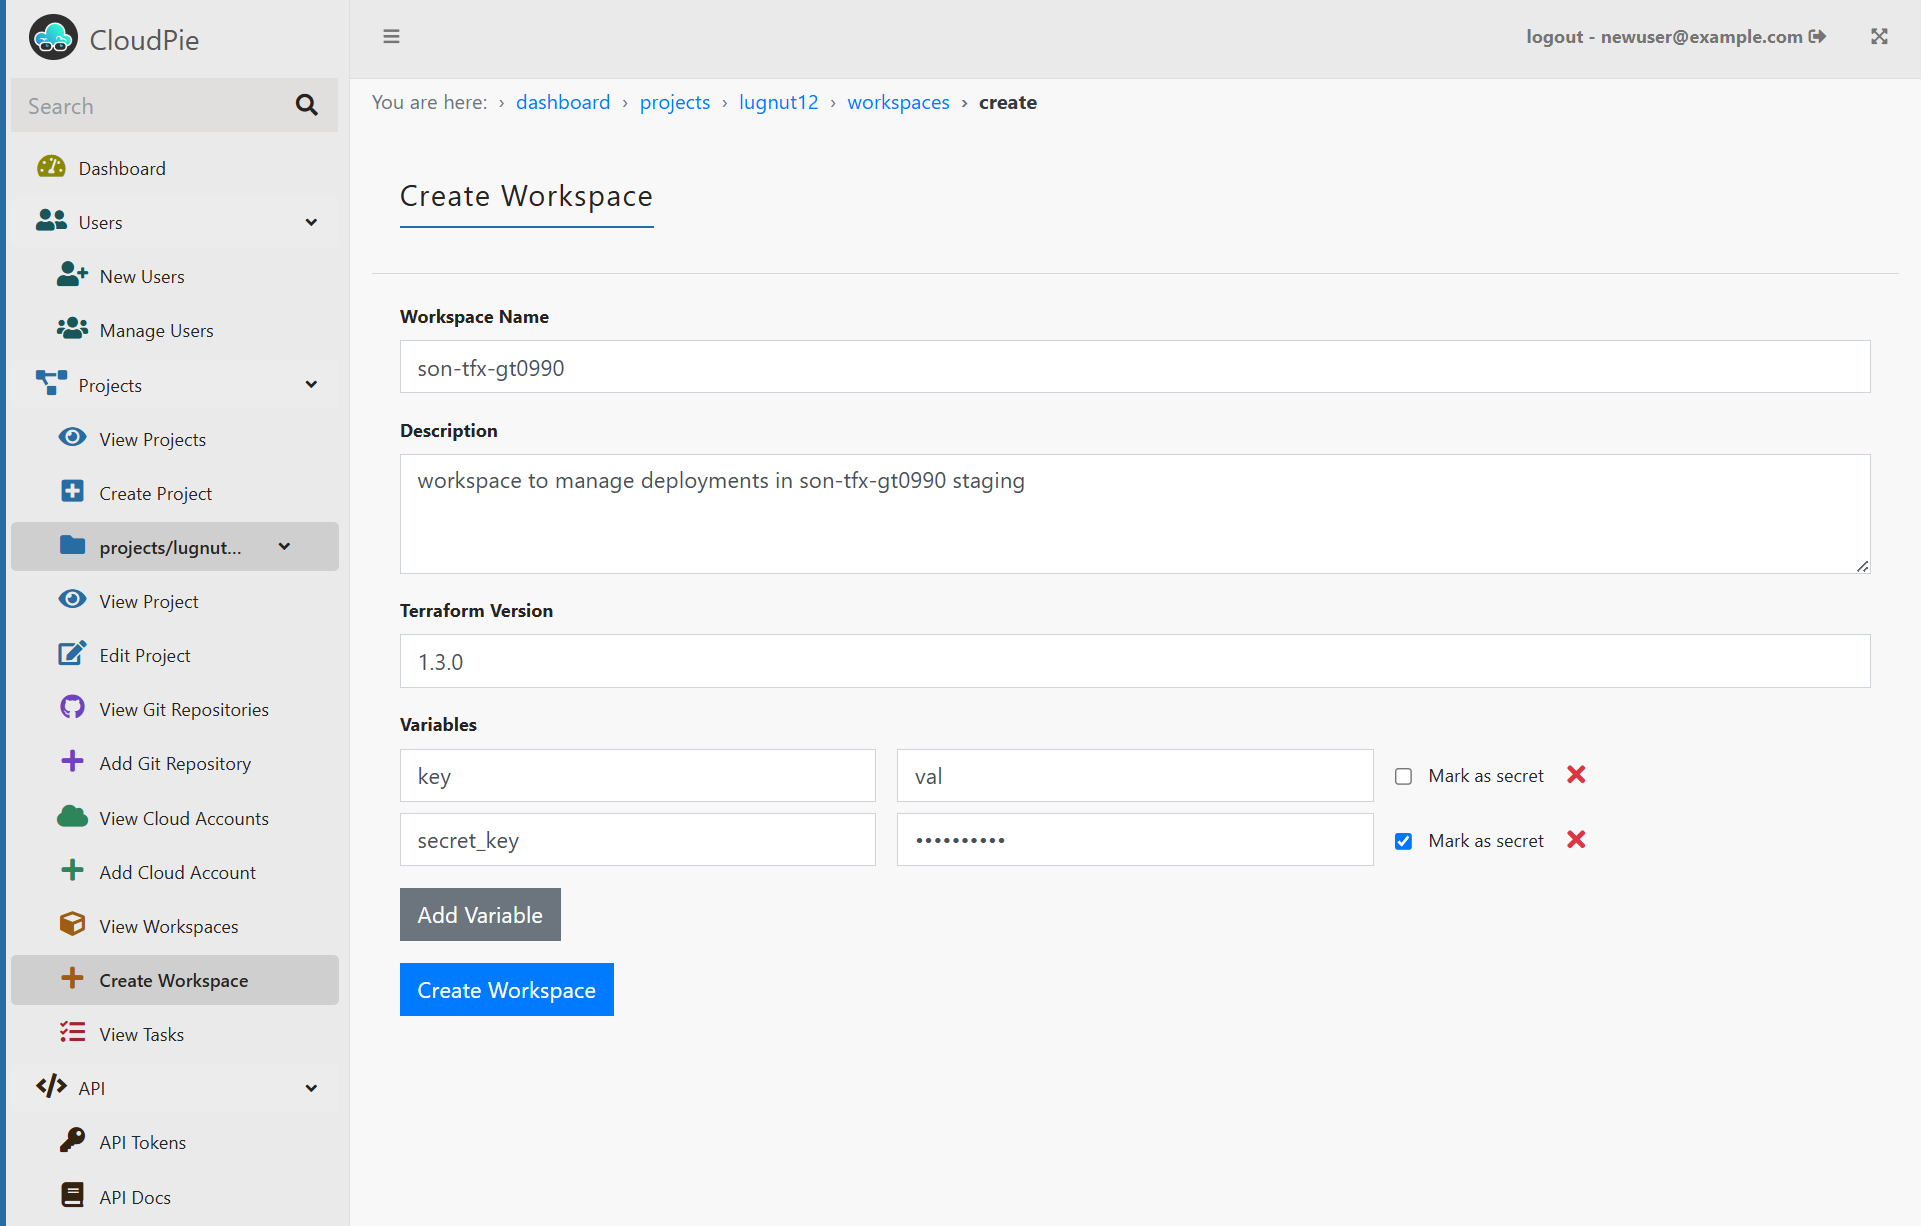
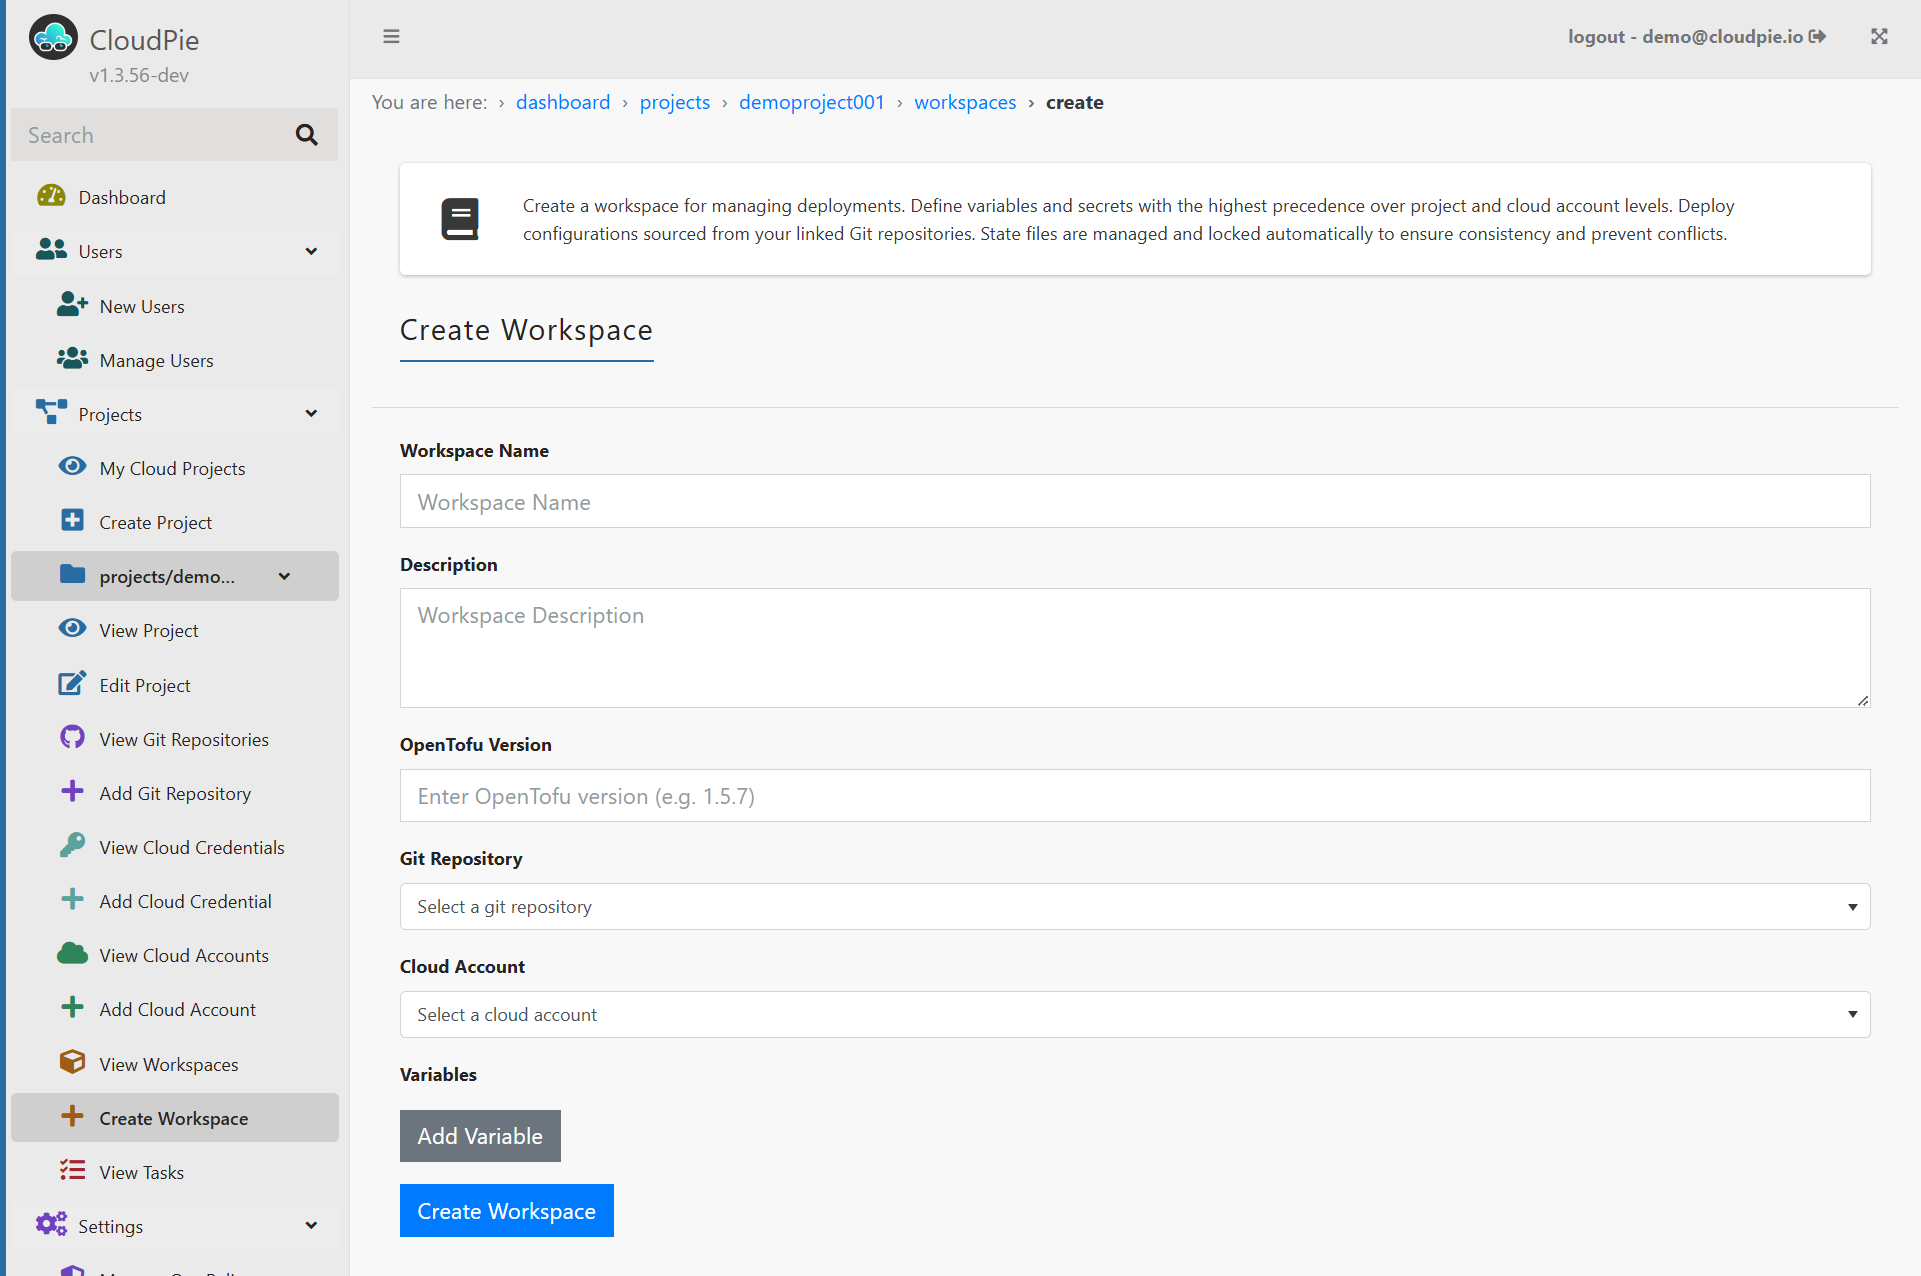
Deployed d2370c1 with MkDocs version: 1.6.1

diff --git a/cloud-accounts-querying/index.html b/cloud-accounts-querying/index.html
@@ -72,7 +72,7 @@
     <div data-md-component="skip">
       
         
-        <a href="#querying-cloud-resources" class="md-skip">
+        <a href="#benchmarks-and-queries" class="md-skip">
           Skip to content
         </a>
       
@@ -865,9 +865,9 @@
     <ul class="md-nav__list" data-md-component="toc" data-md-scrollfix>
       
         <li class="md-nav__item">
-  <a href="#executing-a-query" class="md-nav__link">
+  <a href="#running-a-benchmark-or-query" class="md-nav__link">
     <span class="md-ellipsis">
-      Executing a Query
+      Running a Benchmark or Query
     </span>
   </a>
   
@@ -883,25 +883,15 @@
 </li>
       
         <li class="md-nav__item">
-  <a href="#scheduling-queries" class="md-nav__link">
+  <a href="#scheduling-runs" class="md-nav__link">
     <span class="md-ellipsis">
-      Scheduling Queries
+      Scheduling Runs
     </span>
   </a>
   
 </li>
       
         <li class="md-nav__item">
-  <a href="#_1" class="md-nav__link">
-    <span class="md-ellipsis">
-      
-    </span>
-  </a>
-  
-    <nav class="md-nav" aria-label="">
-      <ul class="md-nav__list">
-        
-          <li class="md-nav__item">
   <a href="#manage-scheduled-runs" class="md-nav__link">
     <span class="md-ellipsis">
       Manage Scheduled Runs
@@ -909,18 +899,13 @@
   </a>
   
 </li>
-        
-          <li class="md-nav__item">
-  <a href="#notes-on-querying-cloud-resources" class="md-nav__link">
+      
+        <li class="md-nav__item">
+  <a href="#notes-on-running-benchmarks-and-queries" class="md-nav__link">
     <span class="md-ellipsis">
-      Notes on Querying Cloud Resources
+      Notes on Running Benchmarks and Queries
     </span>
   </a>
-  
-</li>
-        
-      </ul>
-    </nav>
   
 </li>
       
@@ -1312,9 +1297,9 @@
     <ul class="md-nav__list" data-md-component="toc" data-md-scrollfix>
       
         <li class="md-nav__item">
-  <a href="#executing-a-query" class="md-nav__link">
+  <a href="#running-a-benchmark-or-query" class="md-nav__link">
     <span class="md-ellipsis">
-      Executing a Query
+      Running a Benchmark or Query
     </span>
   </a>
   
@@ -1330,25 +1315,15 @@
 </li>
       
         <li class="md-nav__item">
-  <a href="#scheduling-queries" class="md-nav__link">
+  <a href="#scheduling-runs" class="md-nav__link">
     <span class="md-ellipsis">
-      Scheduling Queries
+      Scheduling Runs
     </span>
   </a>
   
 </li>
       
         <li class="md-nav__item">
-  <a href="#_1" class="md-nav__link">
-    <span class="md-ellipsis">
-      
-    </span>
-  </a>
-  
-    <nav class="md-nav" aria-label="">
-      <ul class="md-nav__list">
-        
-          <li class="md-nav__item">
   <a href="#manage-scheduled-runs" class="md-nav__link">
     <span class="md-ellipsis">
       Manage Scheduled Runs
@@ -1356,18 +1331,13 @@
   </a>
   
 </li>
-        
-          <li class="md-nav__item">
-  <a href="#notes-on-querying-cloud-resources" class="md-nav__link">
+      
+        <li class="md-nav__item">
+  <a href="#notes-on-running-benchmarks-and-queries" class="md-nav__link">
     <span class="md-ellipsis">
-      Notes on Querying Cloud Resources
+      Notes on Running Benchmarks and Queries
     </span>
   </a>
-  
-</li>
-        
-      </ul>
-    </nav>
   
 </li>
       
@@ -1386,96 +1356,97 @@
                   
 
 
-<h1 id="querying-cloud-resources">Querying Cloud Resources</h1>
-<p>Cloudpie allows you to query your cloud resources directly from within the platform, providing flexible options to either run queries immediately or schedule them for periodic execution. This section will guide you through the steps for both approaches and how to manage queries effectively.</p>
+<h1 id="benchmarks-and-queries">Benchmarks and Queries</h1>
+<p>Cloudpie allows you to run <strong>benchmarks</strong> and <strong>queries</strong> on your connected cloud accounts. You can execute them immediately or schedule them for recurring runs. This section explains how to use the query form, run immediate checks, and manage scheduled runs.</p>
 <hr />
-<h3 id="executing-a-query">Executing a Query</h3>
-<p>To execute a query for a specific cloud account:</p>
+<h3 id="running-a-benchmark-or-query">Running a Benchmark or Query</h3>
+<p>To execute a Benchmark or a Query on a specific cloud account:</p>
 <ol>
-<li>Access the Cloud Account Page:</li>
-<li>Navigate to the <strong>Dashboard</strong>, select the project, and open the <strong>View Cloud Accounts</strong> menu.</li>
-<li>From the list of cloud accounts, click on the <strong>Settings icon</strong> for the desired account to open its <strong>Cloud Account Page</strong>. Here, next to the basic cloud account details, you will find the Steampipe Query Execution form.</li>
+<li><strong>Access the Cloud Account Page</strong></li>
+<li>From the <strong>Dashboard</strong>, select the project and open the <strong>View Cloud Accounts</strong> menu.  </li>
+<li>Choose the desired cloud account to open its <strong>Cloud Account Page</strong>. Alongside the account details, you will see the <strong>Benchmark &amp; Query Execution form</strong>.</li>
 </ol>
-<p><strong><em>Example Image: Cloud Account Page</em></strong></p>
-<p><img alt="Screenshot of Cloud Account Page" src="../images/schedule_or_run_cloud_query_1.png" /></p>
+<p><strong><em>Example Image: Cloud Account Page</em></strong><br />
+<img alt="Screenshot of Cloud Account Page" src="../images/schedule_or_run_cloud_query_1.png" /></p>
 <ol>
-<li><strong>Fill Out the Query Execution Form:</strong><ul>
-<li><strong>Query</strong>: Select this option to execute custom Steampipe SQL queries from a Git repository.</li>
-<li><strong>Benchmark</strong>: Select this option to execute the latest CIS benchmark for the associated cloud platform.</li>
-<li><strong>Powerpipe Version (optional)</strong>: Specify the Powerpipe version to use, or leave it as the default (<code>latest</code>).</li>
-<li><strong>Steampipe Version (optional)</strong>: Specify the Steampipe version to use, or leave it as the default (<code>latest</code>).</li>
-<li><strong>Plugin Version</strong>: Specify the plugin version to use, or leave it as the default (<code>latest</code>).</li>
-<li><strong>Git Repository (For Query Runs):</strong> Use the dropdown to search and select a Git repository registered within the project. Ensure the repository contains valid <code>.sql</code> files and the <code>steampipe_queries_path</code> is set to a path containing the <code>.sql</code> files</li>
+<li><strong>Fill Out the Execution Form</strong></li>
+<li><strong>Run Type</strong>:  <ul>
+<li><em>Benchmark</em>: Run one of the predefined benchmark categories (e.g., Compliance, Cost, Access Risks).  </li>
+<li><em>Query</em>: Run a custom SQL query from a registered Git repository.</li>
 </ul>
 </li>
-<li><strong>Execution Type:</strong><ul>
-<li><strong>Immediate</strong>: Executes the query as soon as you submit the form.</li>
-<li><strong>Schedule</strong>: Allows you to configure a schedule for recurring query execution.</li>
+<li><strong>Benchmark Type</strong>:  <ul>
+<li><em>Auto Benchmark</em>: Automatically provides checks under the chosen category.  </li>
+<li><em>Custom Benchmark</em>: Allows selection of a specific benchmark from the available list.</li>
 </ul>
 </li>
-<li><strong>Task Timeout (Optional):</strong><ul>
-<li>Specify a custom timeout in hours for the task, or leave it as the default (<code>2 hours</code>).</li>
+<li><strong>Benchmark Category</strong>:  <ul>
+<li>Choose the type of checks you want to run (e.g., <em>Compliance</em>, <em>Cost Optimization</em>, <em>Public Access Risks</em>).  </li>
+<li>Once selected, the dropdown for benchmarks is dynamically populated with available checks for that category.</li>
 </ul>
 </li>
-<li><strong>Submit the Form:</strong><ul>
-<li>Once all fields are completed, click <strong>Run Query</strong> to execute the query.</li>
+<li><strong>Execution Type</strong>:  <ul>
+<li><em>Immediate</em>: Executes the query or benchmark right away.  </li>
+<li><em>Schedule</em>: Configure recurring execution.</li>
+</ul>
+</li>
+<li><strong>Task Timeout (Optional)</strong>:  <ul>
+<li>Specify a timeout in hours for the task, or leave it as the default (<code>2 hours</code>).</li>
+</ul>
+</li>
+<li><strong>Submit the Form</strong>:  <ul>
+<li>Click <strong>Run Query</strong> to execute immediately or save as a scheduled run.</li>
 </ul>
 </li>
 </ol>
 <hr />
 <h3 id="immediate-run">Immediate Run</h3>
 <ul>
-<li>If a query or benchmark is run with Execution Type set to Immediate, the request is tracked directly on the Cloud Account page.</li>
-<li>An entry showing the <strong>status of the query</strong> appears dynamically, updating in real time.</li>
+<li>When Execution Type is set to <strong>Immediate</strong>, the request is tracked on the Cloud Account page.  </li>
+<li>A new entry appears in the list with real-time updates on the <strong>status of the run</strong>.</li>
 </ul>
-<p><strong><em>Example Image: Form submission and query status</em></strong></p>
-<p><img alt="Screenshot of Query Execution Form" src="../images/schedule_or_run_cloud_query_2.png" /></p>
+<p><strong><em>Example Image: Form submission and query status</em></strong><br />
+<img alt="Screenshot of Query Execution Form" src="../images/schedule_or_run_cloud_query_2.png" /></p>
 <ul>
-<li>Use the <strong>View Logs</strong> button to:<ul>
-<li><strong>Tail live Execution logs</strong> for active runs.</li>
-<li>Access and <strong>download Execution logs</strong> for completed runs.</li>
-<li><strong>Download CSV output of query results</strong> once the run is completed. </li>
+<li>Use the <strong>View Logs</strong> button to:  </li>
+<li>Tail <strong>live logs</strong> for active runs.  </li>
+<li>Access and download logs for completed runs.  </li>
+<li>Download the <strong>CSV output</strong> of query or benchmark results.</li>
 </ul>
-</li>
-</ul>
-<p><strong><em>Example Image: Query execution Logs</em></strong></p>
-<p><img alt="Screenshot of Query Logs Page" src="../images/schedule_or_run_cloud_query_execution_logs.png" /></p>
+<p><strong><em>Example Image: Query execution Logs</em></strong><br />
+<img alt="Screenshot of Query Logs Page" src="../images/schedule_or_run_cloud_query_execution_logs.png" /></p>
 <hr />
-<h3 id="scheduling-queries">Scheduling Queries</h3>
-<p>To schedule a recurring query for a cloud account:</p>
+<h3 id="scheduling-runs">Scheduling Runs</h3>
+<p>To configure a recurring run:</p>
 <ul>
-<li>In the Query Execution Form on the <strong>Cloud Account Page</strong>, select the <strong>Scheduled Run</strong> option for <strong>Execution type</strong>, instead of <strong>Immediate</strong>.</li>
-<li>Choose one of the following scheduling methods:<ul>
-<li><strong>Cron Expression</strong>: Specify a cron pattern (e.g., <code>0 0 * * *</code> for daily runs at midnight).</li>
-<li><strong>Rate Expression</strong>: Define the interval (e.g., <code>rate(2 hours)</code> for every 2 hours).</li>
+<li>In the Execution Form, choose <strong>Schedule</strong> instead of Immediate.  </li>
+<li>Provide one of the following:  </li>
+<li><strong>Cron Expression</strong>: (e.g., <code>0 0 * * *</code> for daily at midnight).  </li>
+<li><strong>Rate Expression</strong>: (e.g., <code>rate(2 hours)</code> for every 2 hours).  </li>
+<li>After scheduling, open the <strong>Scheduled Runs</strong> menu in the sidebar for the cloud account.  </li>
+<li>This page shows the scheduled run alongside others configured for the same account.</li>
 </ul>
-</li>
-<li>After scheduling a query, navigate to the <strong>"Scheduled Runs"</strong> menu in the sidebar for the selected cloud account. </li>
-<li>This page should now include the query run that was scheduled, including the other scheduled query runs scheduled in that cloud account.</li>
-</ul>
-<p><strong><em>Example Image: Scheduled Runs Page</em></strong></p>
-<h2 id="_1"><img alt="Screenshot of Scheduled Runs Page" src="../images/schedules_list.png" /></h2>
+<p><strong><em>Example Image: Scheduled Runs Page</em></strong><br />
+<img alt="Screenshot of Scheduled Runs Page" src="../images/schedules_list.png" /></p>
+<hr />
 <h3 id="manage-scheduled-runs">Manage Scheduled Runs</h3>
 <ul>
-<li>To manage a scheduled run, click on a specifc run to open a page containing additional details and all the periodic runs created by that schedule.</li>
-<li>Enable or disable a scheduled run to pause or resume execution as needed.</li>
-<li>On the same page view all historical runs associated with it.</li>
-<li>For each run created by the schedule you can view the logs. Click <strong>View Logs</strong> against the run to:<ul>
-<li><strong>Tail live Execution logs</strong> for active runs.</li>
-<li>Access and <strong>download Execution logs</strong> for completed runs.</li>
-<li><strong>Download CSV output of query results</strong> once the run is completed. </li>
-</ul>
-</li>
+<li>Click a scheduled run to view its details and history.  </li>
+<li>Enable or disable the schedule to pause or resume execution.  </li>
+<li>Each historical run entry provides access to:  </li>
+<li>Live logs for in-progress runs.  </li>
+<li>Completed logs for past runs.  </li>
+<li>CSV output of the results.</li>
 </ul>
 <hr />
-<h3 id="notes-on-querying-cloud-resources">Notes on Querying Cloud Resources</h3>
+<h3 id="notes-on-running-benchmarks-and-queries">Notes on Running Benchmarks and Queries</h3>
 <ul>
-<li><strong>Git Repository Integration:</strong> Ensure the repository is registered in the project and contains valid <code>.sql</code> files for Steampipe queries. Ensure that the <code>steampipe_queries_path</code> is configured for the repository that is registered.</li>
-<li><strong>Auto Benchmark:</strong> This option automatically runs the latest CIS benchmark for the selected cloud platform, requiring no additional configuration.</li>
-<li><strong>Logs and Status Updates:</strong> The logs and status updates for both immediate and scheduled runs are dynamically updated to provide real-time insights.</li>
-<li><strong>Downloadable Artifacts:</strong> Query results are available as <strong>CSV files</strong> for download. These can be used in:</li>
-<li><strong>ETL Pipelines</strong>: Transform and load the data into other systems.</li>
-<li><strong>AI Operations</strong>: Feed the data into AI/ML tools for advanced analytics and insights.</li>
+<li><strong>Auto Benchmark</strong>: Automatically provides checks under the chosen category (Compliance, Cost, Access Risks).  </li>
+<li><strong>Custom Benchmark</strong>: Lets you select specific benchmark versions (e.g., CIS v1.5, CIS v2.0, FedRAMP, etc.).  </li>
+<li><strong>Logs and Status Updates</strong>: Always updated in real time during and after execution.  </li>
+<li><strong>Downloadable Outputs</strong>: Results can be exported as CSVs for:  </li>
+<li>ETL pipelines  </li>
+<li>Analytics and AI/ML workflows  </li>
 </ul>
 
 

diff --git a/workspace-add/index.html b/workspace-add/index.html
@@ -1321,7 +1321,10 @@
 
 
 <h1 id="adding-a-workspace">Adding a Workspace</h1>
-<p>Create a workspace for managing Terraform deployments. Define variables and secrets with the highest precedence over project and cloud account levels. Deploy configurations sourced from your linked Git repositories.</p>
+<p>Create a workspace for managing Terraform deployments using <strong>OpenTofu</strong>.<br />
+OpenTofu is an <strong>open-source, community-driven alternative to Terraform</strong>, maintained under the Linux Foundation. It is a <strong>drop-in replacement for Terraform</strong> and fully compatible with both new and existing Terraform configurations. By specifying the OpenTofu version in your workspace, you ensure that your deployments run consistently across environments.</p>
+<p>➡ Learn more about OpenTofu here: <a href="https://opentofu.org">https://opentofu.org</a></p>
+<hr />
 <h2 id="prerequisites">Prerequisites</h2>
 <ul>
 <li>An active project in CloudPie</li>
@@ -1329,6 +1332,7 @@
 <li>Git repository containing Terraform configurations added to Project</li>
 <li>User with permissions to create workspaces</li>
 </ul>
+<hr />
 <h2 id="creating-a-workspace">Creating a Workspace</h2>
 <ol>
 <li><strong>Access the Project:</strong></li>
@@ -1341,32 +1345,33 @@
 <p><strong>Configure Workspace Settings:</strong></p>
 </li>
 <li>
-<p><strong>Workspace Name</strong> (required)
+<p><strong>Workspace Name</strong> (required)<br />
      Enter a unique identifier for your workspace</p>
 </li>
 <li>
-<p><strong>Description</strong> (optional)
+<p><strong>Description</strong> (optional)<br />
      Add details about the workspace purpose</p>
 </li>
 <li>
-<p><strong>Terraform Version</strong>
-     Specify the version (e.g., 1.5.7)</p>
+<p><strong>OpenTofu Version</strong><br />
+     Specify the version of OpenTofu to use (e.g., <code>1.5.7</code>).<br />
+     OpenTofu ensures compatibility with Terraform code, so you can continue to use your existing Terraform configurations without modification.</p>
 </li>
 <li>
 <p><strong>Link Resources:</strong></p>
 </li>
 <li>
-<p><strong>Git Repository</strong>
-     Select from available repositories containing Terraform code</p>
+<p><strong>Git Repository</strong><br />
+     Select from available repositories containing Terraform/OpenTofu code</p>
 </li>
 <li>
-<p><strong>Cloud Account</strong>
+<p><strong>Cloud Account</strong><br />
      Choose the target cloud account for deployments</p>
 </li>
 <li>
 <p><strong>Add Variables (Optional):</strong></p>
 </li>
-<li>Click <strong>Add Variable</strong> to define workspace-specific variables</li>
+<li>Click <strong>Add Variable</strong> to define workspace-specific variables  </li>
 <li>
 <p>Variables defined here take precedence over project and cloud account variables</p>
 </li>
@@ -1375,15 +1380,15 @@
 </li>
 </ol>
 <p><img alt="Screenshot of Create Workspace form" src="../images/add_workspace.png" /></p>
+<hr />
 <h2 id="important-notes">Important Notes</h2>
 <ul>
 <li>Workspace names must be unique within a project</li>
-<li>Git repository must contain valid Terraform configurations</li>
+<li>Git repository must contain valid Terraform configurations (works the same with OpenTofu)</li>
 <li>Variables are encrypted and securely stored</li>
 <li>State files are managed automatically</li>
 <li>Conflicts are prevented through state locking</li>
 </ul>
-<hr />
 
 
 

diff --git a/workspace-update/index.html b/workspace-update/index.html
@@ -1349,7 +1349,7 @@
    You can update:</p>
 </li>
 <li>Workspace description</li>
-<li>Terraform version</li>
+<li>OpenTofu version</li>
 <li>Associated Git repository</li>
 <li>Linked cloud account</li>
 <li>
